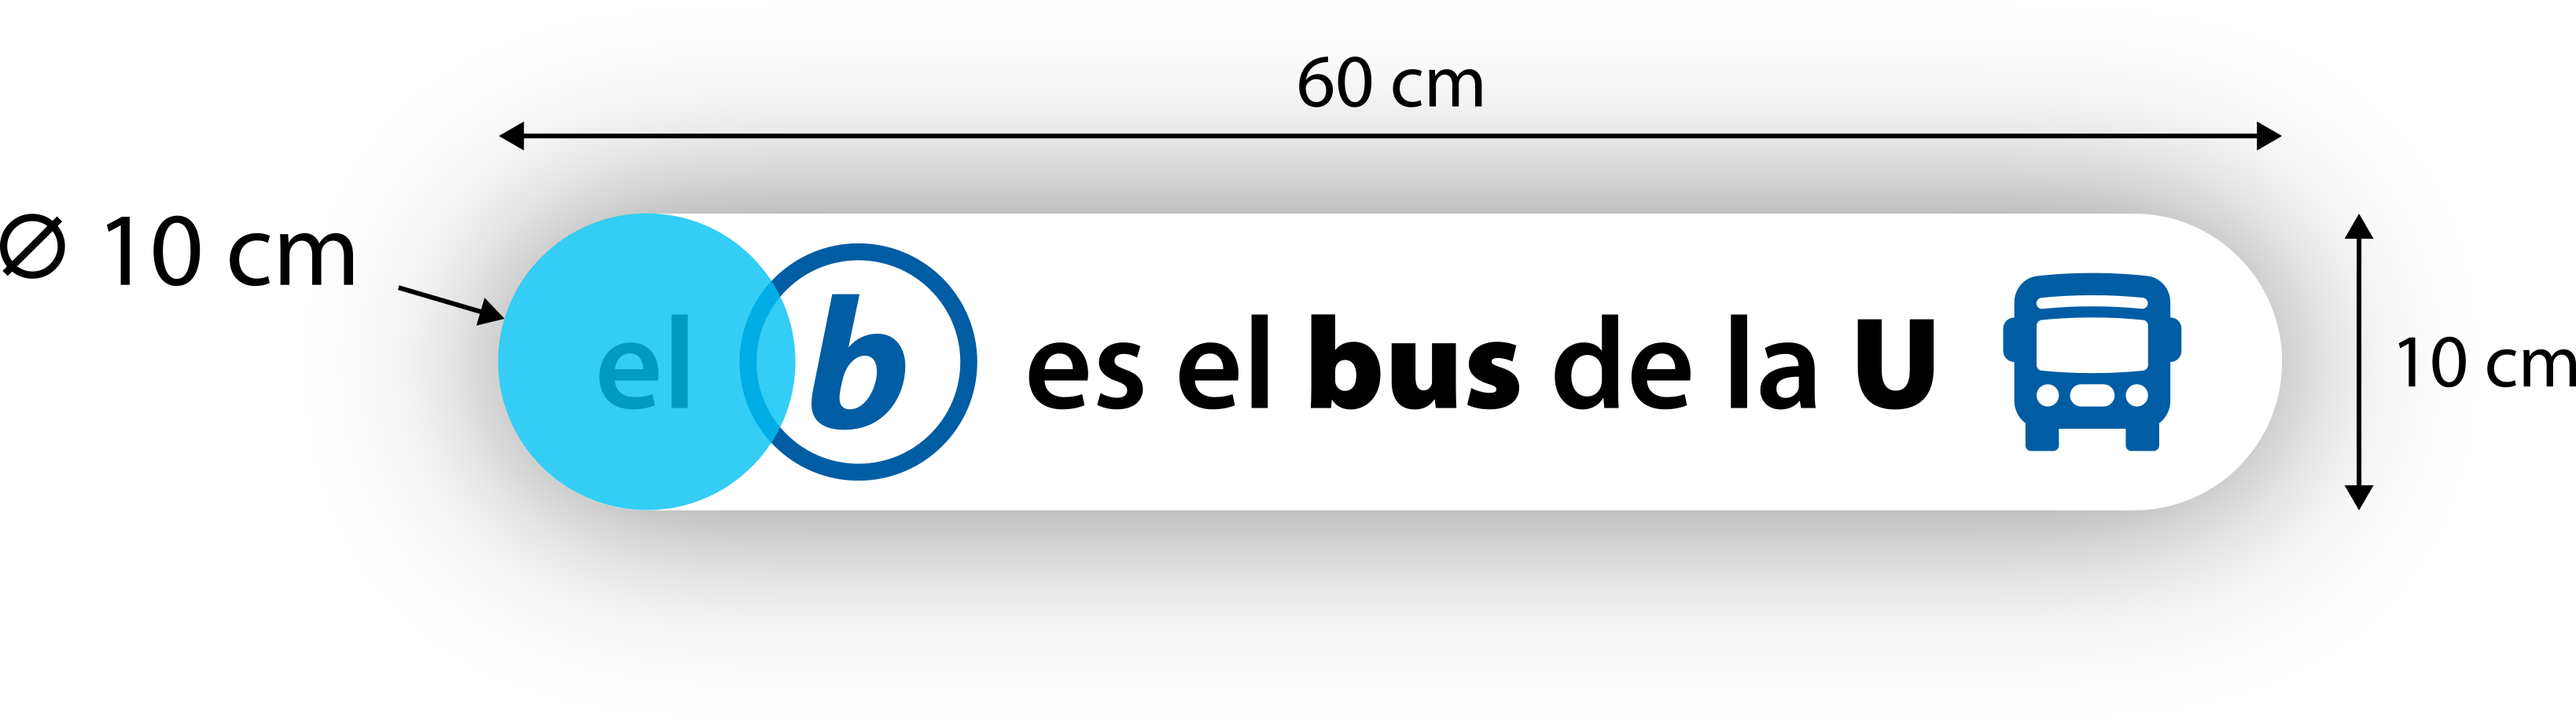
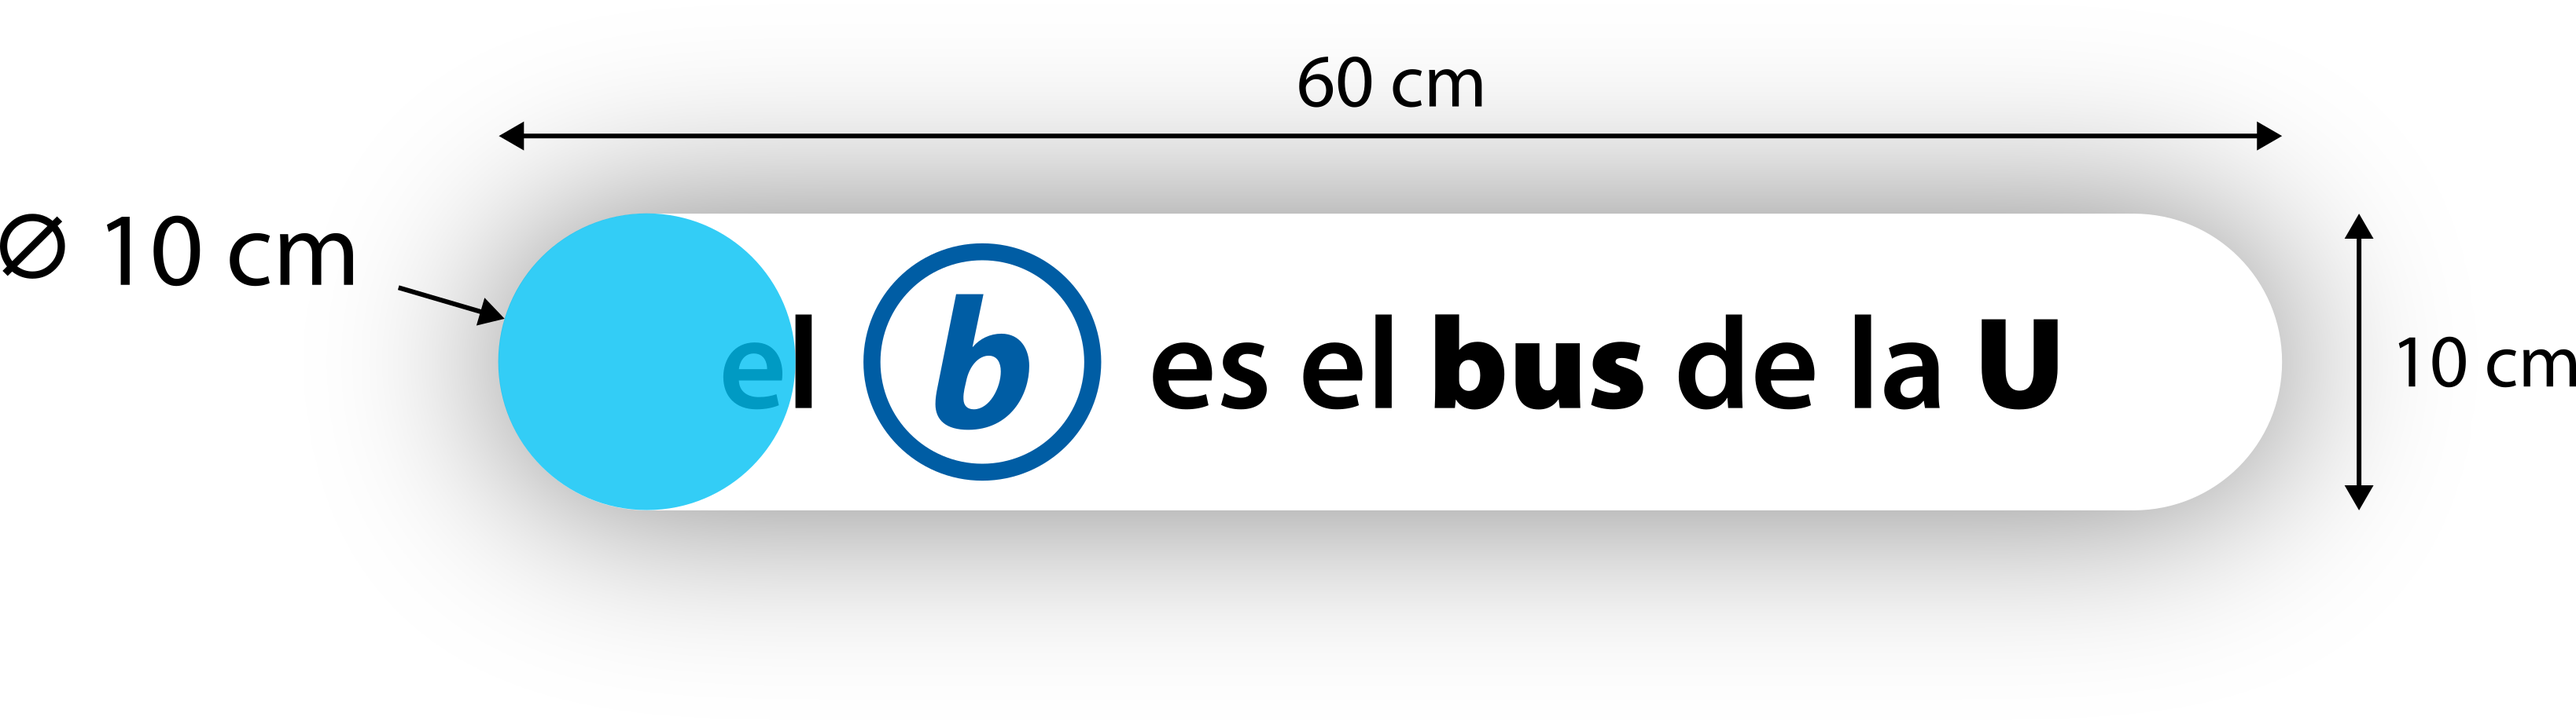
Revisión de textos y adición de rótulos promocionales

Changed region(s): [[0.2179, 0.3341, 0.8718, 0.6681]]

diff --git a/docs/infraestructura.md b/docs/infraestructura.md
@@ -6,8 +6,8 @@ Según el [informe de la encuesta de satisfacción](https://kerwa.ucr.ac.cr/hand
 
 Cada parada tiene dos elementos: 
 
-- El símbolo ***b***, como un rótulo circular.
-- El nombre de la parada, cuyo diseño varía según el tipo.
+- **El símbolo *b***, como un rótulo circular.
+- **El nombre de la parada**, cuyo diseño varía según el tipo.
 
 Actualmente hay dos tipos de paradas en el servicio:
 
@@ -45,6 +45,8 @@ Está localizado en un poste en la acera. Tiene el símbolo ***b*** y el nombre 
 ### Especificaciones
 
 - El texto es centrado verticalmente y horizontalmente.
+- La tipografía es Myriad Pro negrita (**bold**).
+- Tamaño de texto de alrededor de 300 pt (10 cm).
 - El símbolo ***b*** tiene **45 cm de diámetro**. 
 - El radio de curvatura es, respectivamente: 5 cm en el marco, y del borde blanco 4 cm en el exterior y 2,5 cm en el interior.
 - Entre el símbolo y el rótulo hay **5 cm de separación vertical** en el poste.
@@ -65,7 +67,7 @@ Está localizado en un poste en la acera. Tiene el símbolo ***b*** y el nombre 
     
     <img src="../assets/png/rotulo_vertical_simple_grilla.png" width="300px" alt="Rótulo vertical parada Educación"/>
 
-    Tamaño de texto recomendado menor a 550 pt, equivalente a unos 19,4 cm de alto –utilizable solamente en acrónimos cortos– y mayor a 200 pt (7 cm).
+    Tamaño de texto recomendado máximo de 550 pt, equivalente a unos 19,4 cm de alto (utilizable solamente en acrónimos cortos) y mínimo de 200 pt (7 cm).
 
     [:material-download: Descargar plantilla en SVG](./assets/svg/rotulo_vertical_simple_grilla.svg)
 
@@ -77,12 +79,17 @@ Este rótulo es para paradas con infraestructura y está localizado en la parte 
 
 <img src="../assets/png/parada_horizontal.png" width="600px" alt="Rótulo horizontal parada Facultad de Microbiología"/>
 
+<img src="../assets/png/parada_horizontal_salud.png" width="600px" alt="Rótulo horizontal parada Biblioteca Ciencias de la Salud"/>
+
+<img src="../assets/png/parada_horizontal_sociales.png" width="600px" alt="Rótulo horizontal parada Facultad de Ciencias Sociales"/>
+
 ### Especificaciones
 
-- El símbolo ***b*** es idéntico al de los nombres en el poste. 
+- El símbolo ***b*** es idéntico al de los nombres en el poste (45 cm de diámetro). 
+- La tipografía es Myriad Pro negrita (**bold**).
 - Hay una sola línea de texto.
-- El texto está centrado en el área de texto.
-- El texto oscila alrededor de los 400 pt (14 cm).
+- El texto está visualmente centrado horizontalmente y verticalmente en el área de texto.
+- El tamaño del texto oscila alrededor de los 400 pt (14 cm).
 
 <img src="../assets/png/rotulo_horizontal_grilla.png" width="700px" alt="Rótulo horizontal parada Facultad de Microbiología"/>
 
@@ -92,17 +99,41 @@ Este rótulo es para paradas con infraestructura y está localizado en la parte 
 
 Utilizando uno de los lemas presentados en la sección de [Elementos](./elementos.md) es posible crear un rótulo de *promoción* del servicio.
 
-<img src="../assets/png/rotulo_el_b_es_el_bus.png" width="400px" alt="Rótulo el b es el bus de la U"/>
+<div class="grid cards" markdown>
 
-Este rótulo puede ser adicionado a otros rótulos para informar, sobre todo en la primera fase de implementación, sobre qué trata la nueva señalización.
+-   **Rótulo con lema** 
+    
+    <img src="../assets/png/rotulo_el_b_es_el_bus.png" width="400px" alt="Rótulo el b es el bus de la U"/>
 
-<img src="../assets/png/rotulo_vertical_el_b_es_el_bus.png" width="300px" alt="Rótulo vertical con lema el b es el bus de la U"/>
+-   **Rótulo con ícono de bus** 
+    
+    <img src="../assets/png/rotulo_bus_circular.png" width="150px" alt="Rótulo ícono de bus"/>
+
+</div>
+
+Estos rótulo pueden ser adicionados a otros rótulos informativos, sobre todo en la primera fase de implementación, para explicar de qué trata la nueva señalización.
+
+<div class="grid cards" markdown>
+
+-   **Rótulo vertical con lema** 
+    
+    <img src="../assets/png/rotulo_vertical_el_b_es_el_bus.png" width="300px" alt="Rótulo vertical con lema el b es el bus de la U"/>
+
+-   **Rótulo vertical con ícono de bus** 
+    
+    <img src="../assets/png/rotulo_vertical_bus_circular.png" width="300px" alt="Rótulo vertical con ícono de bus"/>
+
+</div>
 
 ### Especificaciones
 
 <img src="../assets/png/rotulo_el_b_es_el_bus_grilla.png" width="500px" alt="Grilla del rótulo el b es el bus de la U"/>
 
 [:material-download: Descargar plantilla en SVG](./assets/svg/rotulo_el_b_es_el_bus_grilla.svg)
+
+<img src="../assets/png/rotulo_bus_grilla.png" width="250px" alt="Grilla del rótulo con ícono de bus"/>
+
+[:material-download: Descargar plantilla en SVG](./assets/svg/rotulo_bus_grilla.svg)
 
 ## Trabajo futuro
 

diff --git a/docs/index.md b/docs/index.md
@@ -34,6 +34,6 @@ Hay más detalles de todas estas aplicaciones en esta documentación.
 Esta propuesta está regida por:
 
 - Conformidad con el [manual de identidad visual v3.1](./assets/references/identidad_visual_ucr_3.1.pdf) de la Universidad de Costa Rica (2015).
-- Conformidad con la norma nacional [INTE W5 2021](./assets/references/norma_INTE_W5_2021.pdf), denominada "Accesibilidad al medio físico, edificios, espacios urbanos y rurales, señalización accesible" (2021).
+- Conformidad con la norma nacional [INTE W5 2021]([./assets/references/norma_INTE_W5_2021.pdf](https://erp.inteco.org/shop/inte-w5-2021-accesibilidad-al-medio-fisico-edificios-espacios-urbanos-y-rurales-senalizacion-accesible-9695?product=9695#attr=)), denominada "Accesibilidad al medio físico, edificios, espacios urbanos y rurales, señalización accesible" (2021).
 - Conformidad con el [Manual Centroamericano de Dispositivos Uniformes para el Control del Tránsito](./assets/references/manual_centroamericano.pdf) (2015), utilizado en la Universidad de Costa Rica para otros tipos de señalización.
 - Referencias de los [estándares y guías de diseño](https://www.mbta.com/engineering/design-standards-and-guidelines) de MBTA, la agencia de transportes de Boston, y también de otras agencias del mundo.

diff --git a/docs/elementos.md b/docs/elementos.md
@@ -56,13 +56,13 @@ Con base en estas y otras referencias, proponemos un símbolo para el servicio d
   
 <img src="../assets/logos/b_azul_fondo_blanco.png" width="300px" alt="Logo el b bUCR"/>
 
-Consiste en un círculo que engloba la letra ***b***, como referencia a la palabra *bus*. Tiene las siguientes características:
+Consiste en un círculo que engloba la letra ***b***, como referencia a la palabra *bus*.
 
 [:material-download: Descargar símbolo SVG](./assets/svg/b_azul.svg)
 
 #### Características
 
-- Utiliza la tipografía Myriad Pro, específicamente la letra ***b*** en negrita itálica.
+- Utiliza la tipografía Myriad Pro, específicamente la letra ***b*** en negrita (**bold**) cursiva (*italic*).
 - Utiliza el color Azul UCR, pero existen versiones en otros colores.
 
 <img src="../assets/logos/b_azul.png" width="60px" alt="Logo el b bUCR azul"/>

diff --git a/docs/sobre.md b/docs/sobre.md
@@ -8,6 +8,8 @@
 
 <img src="../assets/png/tropicalizacion_negro.png" width="300px" alt="TCU Tropicalización de la tecnología"/>
 
+[:material-email: tropicalizacion@ucr.ac.cr](mailto:tropicalizacion@ucr.ac.cr)
+
 ## Sistema de información
 
 La propuesta del sistema de señalética es una parte de la implementación del sistema de información del servicio de bus interno de la Universidad de Costa Rica, en desarrollo por:
